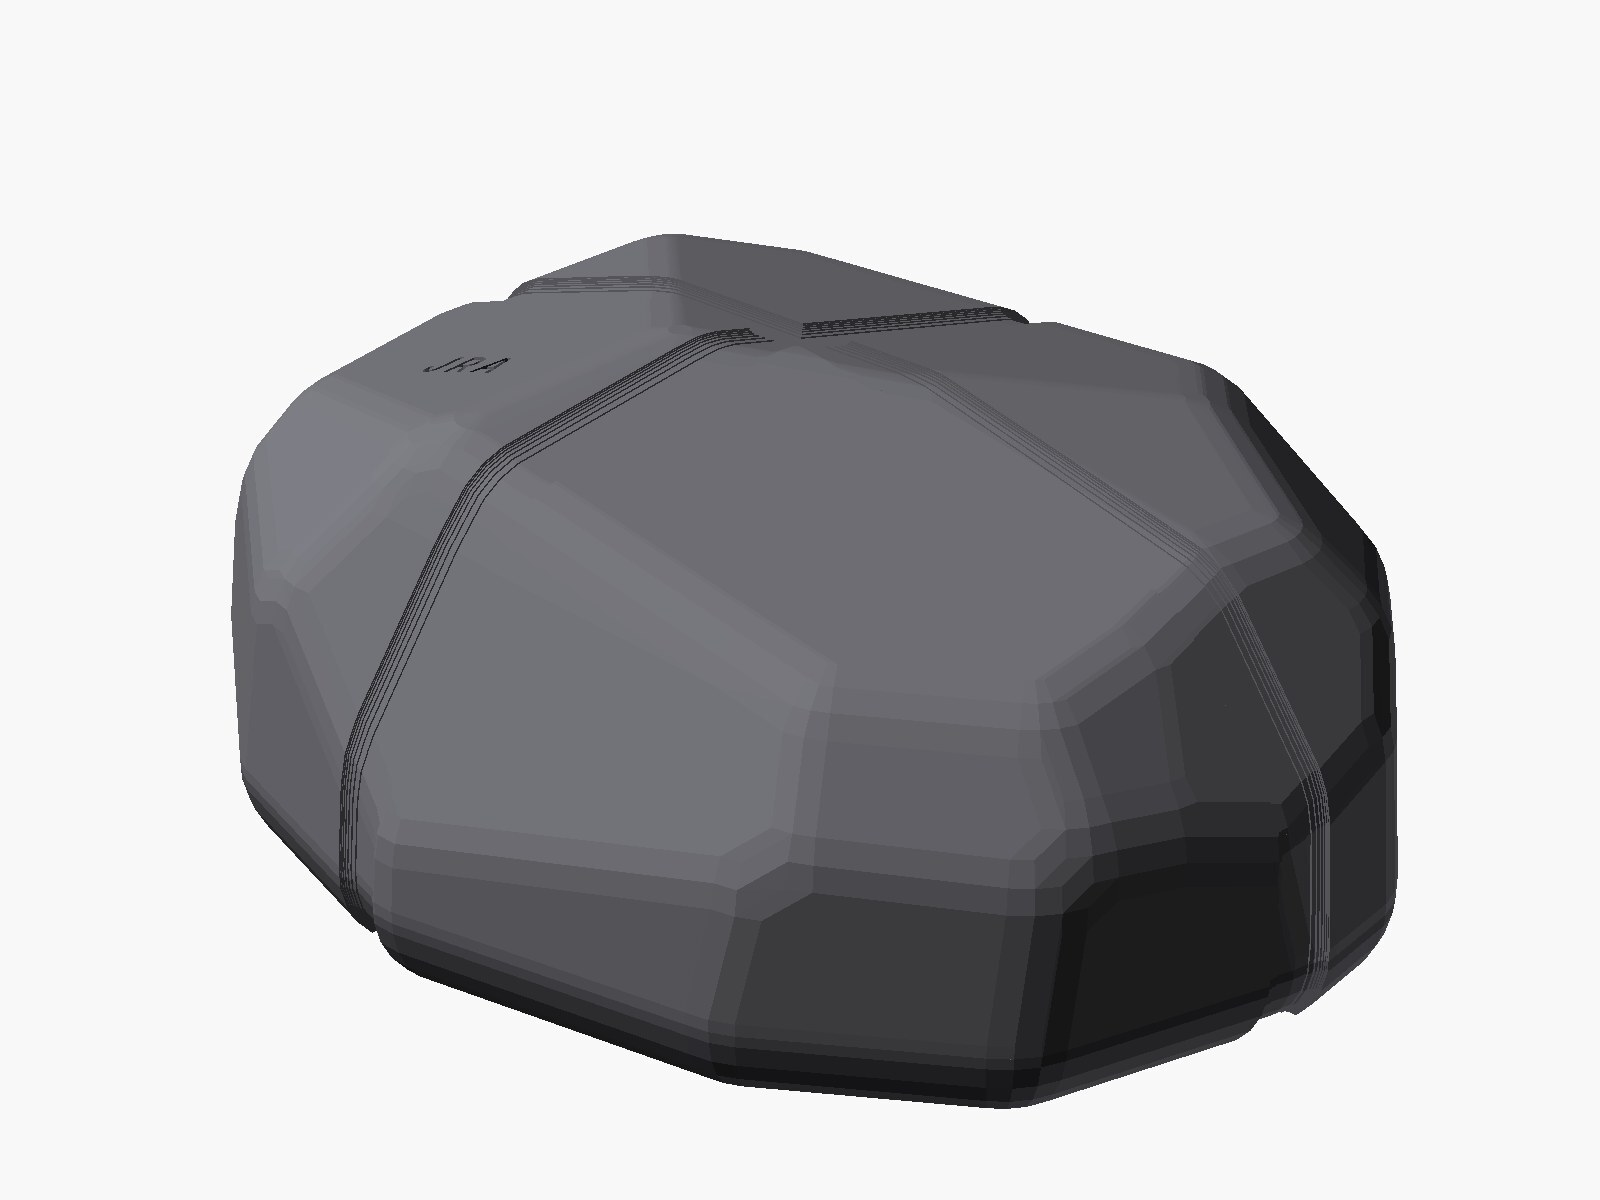
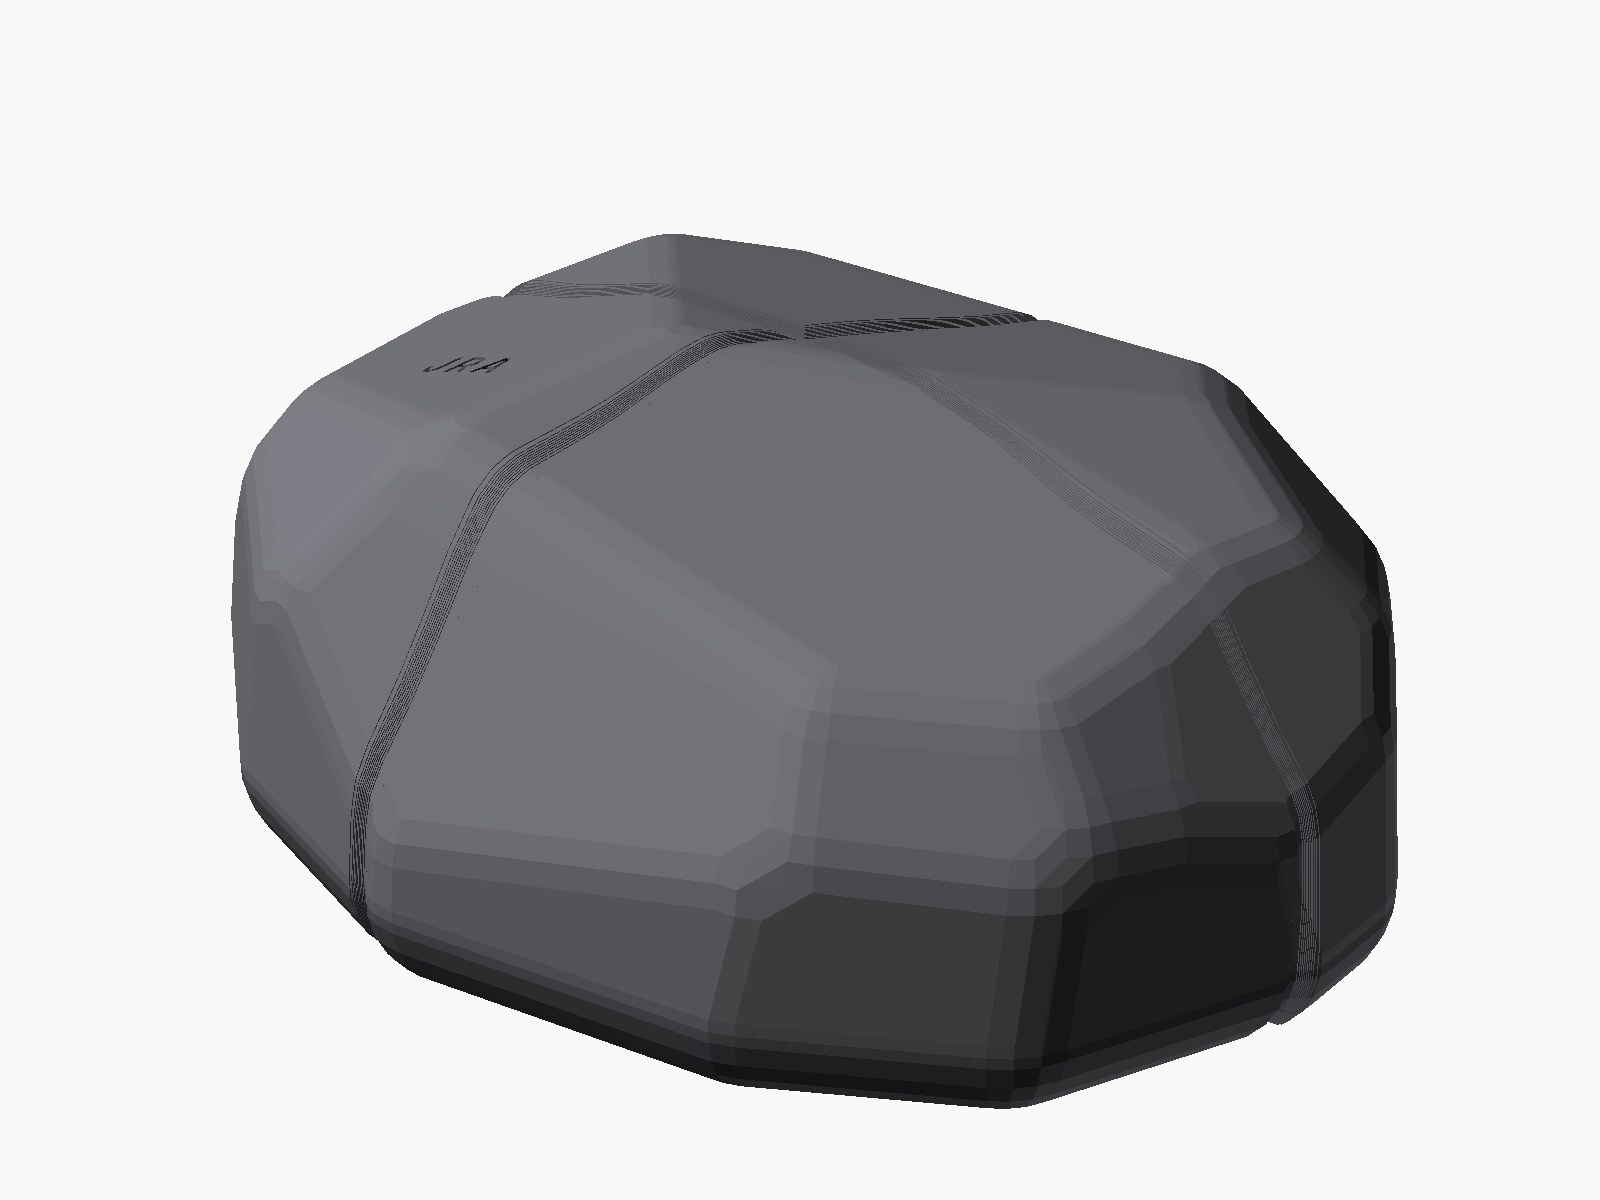
Shell docs: finer wandering band dips, printed push-pins (#16)
Claude-Session: https://claude.ai/code/session_012rfFFJsf1Du3374XFZ9xuq

diff --git a/docs/shell.md b/docs/shell.md
@@ -6,13 +6,14 @@ safe in a bag. Version 3, Nov 24, 2026.
 
 ![The stone case, all parts](media/shell/stone-all.jpg)
 
-## Three parts
+## The parts
 
 | Part | Size | What it is |
 |---|---|---|
-| Tray | 122 x 101 x 13 mm | The Pi screws onto it. Air slots in the floor, microSD slot underneath. |
+| Tray | 122 x 101 x 13 mm | The Pi sits on four posts, held by push-pins. Air slots in the floor, microSD slot underneath. |
 | Work shell | 121 x 100 x 40 mm | Clicks on for the show. All connectors open, ventilation slits over the fan. |
 | Travel shell | 125 x 102 x 40 mm | Clicks on for the bag. Closed, protects the ports. |
+| Push-pins | 6 small pins (4 + 2 spare) | Printed, they hold the Pi to the tray. No screws needed. |
 
 | | |
 |---|---|
@@ -28,10 +29,17 @@ Active Cooler.
 **The click.** The tray rim has a groove; small ridges inside each shell snap into it.
 Push straight down to close, pull straight up to open.
 
-**New in v3: washed-out band grooves.** Soft dips, 6.5 mm wide and 1 mm deep with rounded
-edges, worn into the stone like water would. The travel shell and the tray carry a
-cross (one long, one across) for two hair ties that keep the stone shut in a bag; the
-work shell has only the dip across. `band_w` and `band_d` in `stone.scad` set the size.
+**New in v3: washed-out band grooves.** Fine, soft dips about 4 mm wide and 0.8 mm deep.
+Each one wanders and swells a little, like a line worn by water. The travel shell and the
+tray carry a cross (one long, one across) for two hair ties that keep the stone shut in a
+bag; the work shell has only the dip across. `band_w` and `band_d` in `stone.scad` set the
+size.
+
+**Printed push-pins.** Push each pin through a corner hole of the Pi into its post until
+the split tip clicks. Too tight: `pin_d = 2.3`. Prefer metal: `threads = "self"` (M2.5
+self-tapping screws) or `"insert"`.
+
+![Push-pins](media/shell/stone-pins.jpg)
 
 **Marks.** J R A pressed into the top of each shell. Under the tray: J R A, INFINITE JEST,
 the Pi model and a return address.
@@ -44,15 +52,15 @@ the Pi model and a return address.
   inside of the top, so no outside face is marked. Bed at least 130 x 110 mm.
 - Test first: print the tray and the travel shell and try the click. Too tight: set
   `clr = 0.35` in `stone.scad`. Too loose: `bump_d = 0.7`.
-- Hardware: 4 x M2.5 x 6 mm self-tapping screws (or heat-set inserts), 4 rubber feet,
-  two hair ties.
+- Pins: head down, 100% infill, 0.12 mm layers, no supports.
+- Hardware: 4 rubber feet, two hair ties. No screws.
 
 ## Files
 
 In `infinite_jest/case/print/` on the case branch
 ([pull request #6](https://github.com/Grossi-thisisforyou/read_the_room/pull/6)):
 `stone.scad` (OpenSCAD source; change `seed` for a differently cut stone),
-`stone_tray.stl`, `stone_work.stl`, `stone_travel.stl` and `stone_PRINT_SPEC.txt`.
+`stone_tray.stl`, `stone_work.stl`, `stone_travel.stl`, `stone_pins.stl` and `stone_PRINT_SPEC.txt`.
 
 ```
 openscad -D 'part="tray"'   -o stone_tray.stl   stone.scad
